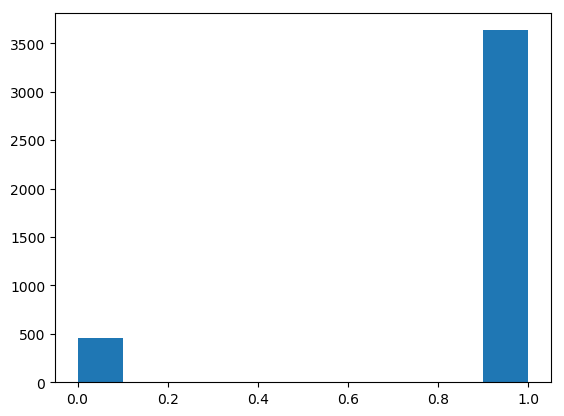
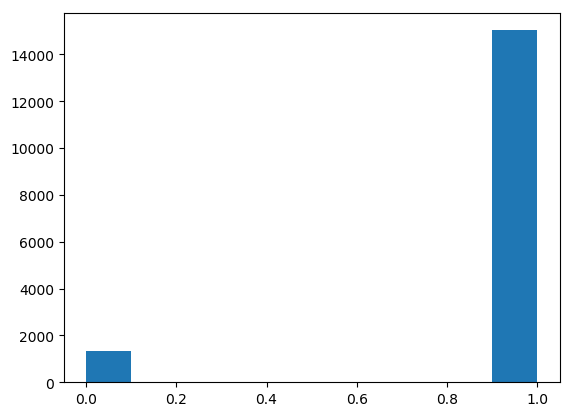
reprocess 128px

diff --git a/process_images/nrand_process.py b/process_images/nrand_process.py
@@ -42,8 +42,8 @@ def group_plot(samples):
 dir_path = './cropped_slices'
 cropped_slices = [f for f in os.listdir(dir_path) if os.path.isfile(os.path.join(dir_path, f))]
 
-n_cuts = 5000 # number of cut images to pull out of the image
-cut_dim = 64 # 28 # pixels size of WxH for cut images
+n_cuts = 1000 # number of cut images to pull out of the image
+cut_dim = 128 # 28 # pixels size of WxH for cut images
 
 for i, cropped_slice in enumerate(cropped_slices):
     
